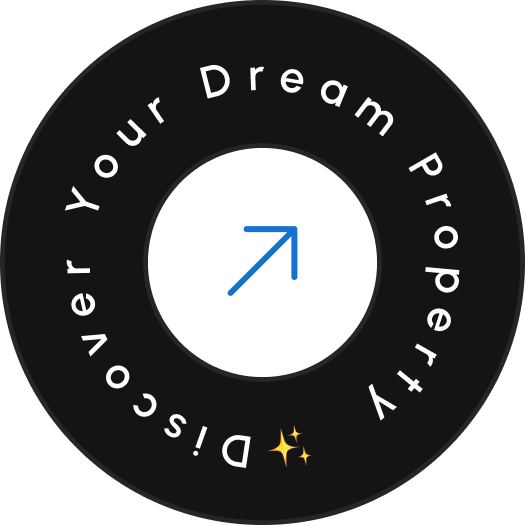
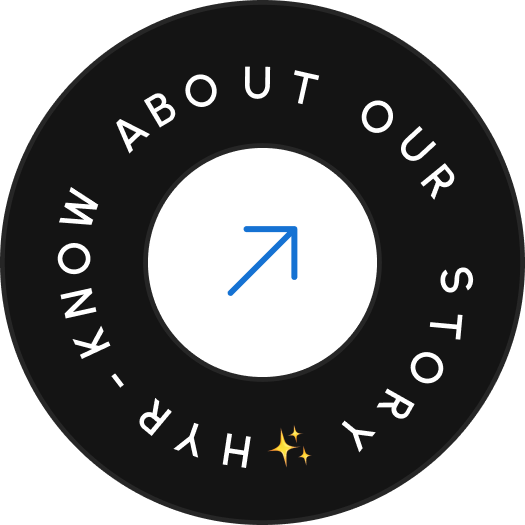
animations

diff --git a/css/animation.css b/css/animation.css
@@ -1,0 +1,102 @@
+.circle {
+  position: relative;
+  width: 120px;
+  height: 120px;
+  border-radius: 50%;
+  display: flex;
+  justify-content: center;
+  align-items: center;
+}
+
+.text {
+  width: 100%;
+  height: 100%;
+  position: absolute;
+  animation: anim 10s linear infinite;
+}
+
+@keyframes anim {
+  0% {
+    transform: rotate(0deg);
+  }
+  100% {
+    transform: rotate(360deg);
+  }
+}
+.text span {
+  position: absolute;
+  left: 50%;
+  font-size: 0.925rem;
+  transform-origin: 0 70px;
+  letter-spacing: 3px;
+}
+
+/* Offers */
+.Offers {
+  width: 100%;
+  min-height: 27rem;
+  overflow: hidden;
+  position: relative;
+}
+
+.Offers__slider {
+  display: flex;
+  width: 300%;
+  animation: slide 15s infinite;
+}
+
+.Offers__slide {
+  width: 100%;
+  flex-shrink: 0;
+  background-size: cover;
+  background-position: center;
+  min-height: 28rem;
+}
+
+.slide1 {
+  background: url("../assets/images/showcase/Showcase.jpg") no-repeat center;
+  background-size: cover;
+}
+.slide2 {
+  background: url("../assets/images/offers/offers_banner.jpg") no-repeat center;
+  background-size: cover;
+}
+.slide3 {
+  background: url("../assets/images/supportPages/corporate-banner.jpg")
+    no-repeat center;
+  background-size: cover;
+}
+
+@keyframes slide {
+  0%,
+  20%,
+  100% {
+    transform: translateX(0);
+  }
+  33.33%,
+  53.33% {
+    transform: translateX(-100%);
+  }
+  66.66%,
+  86.66% {
+    transform: translateX(-200%);
+  }
+}
+
+.Offers__section {
+  position: absolute;
+  top: 0;
+  left: 0;
+  width: 100%;
+  height: 100%;
+  display: flex;
+  align-items: center;
+  justify-content: center;
+}
+
+.Offers__content_wrapper {
+  position: relative;
+  z-index: 1;
+  color: white;
+  text-align: center;
+}

diff --git a/index.html b/index.html
@@ -216,11 +216,13 @@
                   src="./assets/images/about/home-about.jpg"
                   alt="Home About"
                 />
-                <img
-                  class="circular_spinner"
-                  src="./assets/images/about/circular-spinner.png"
-                  alt="circular"
-                />
+                <a href="aboutus.html">
+                  <img
+                    class="circular_spinner"
+                    src="./assets/images/about/circular-spinner.png"
+                    alt="circular"
+                  />
+                </a>
               </div>
             </article>
           </div>
@@ -593,13 +595,17 @@
 
     <!-- Offers Section -->
     <section class="Offers hyr_section_top_space hyr_section_bottom_space">
-      <div class="hyr_page_container">
-        <div class="Offers__section">
-          <div class="Offers__content_wrapper">
-            <h1 class="Downloads__title_fs mi_white" data-aos="fade-up">
-              Let’s make your next Travel amazing with our Offers
-            </h1>
-          </div>
+      <div class="Offers__slider">
+        <div class="Offers__slide slide1"></div>
+        <div class="Offers__slide slide2"></div>
+        <div class="Offers__slide slide3"></div>
+      </div>
+      <div class="Offers__section">
+        <div class="Offers__content_wrapper">
+          <h1 class="Downloads__title_fs mi_white" data-aos="fade-up">
+            Let’s make your next Travel amazing with our Offers
+          </h1>
+          <p class="Downloads__body_fs mi_white">Check out our tour packages</p>
         </div>
       </div>
     </section>

diff --git a/css/style.css b/css/style.css
@@ -6,6 +6,8 @@
 
 @import url("./bio.css");
 
+@import url("animation.css");
+
 :root {
   --hyr_theme_font_family: "Montserrat", sans-serif;
   --hyr_primary_color: #1572d3;
@@ -1106,15 +1108,6 @@ body {
     padding: 1rem;
     margin: 0 1rem;
   }
-}
-
-/* Offers */
-.Offers {
-  width: 100%;
-  min-height: 27rem;
-  background: url("../../../assets/images/offers/offers_banner.jpg") no-repeat
-    center;
-  background-size: cover;
 }
 
 /* Services */

diff --git a/css/changes.css b/css/changes.css
@@ -71,6 +71,16 @@
   position: absolute;
   top: 5rem;
   left: -3rem;
+  animation: anim 10s linear infinite;
+}
+
+@keyframes anim {
+  0% {
+    transform: rotate(0deg);
+  }
+  100% {
+    transform: rotate(360deg);
+  }
 }
 
 .mobile_card {
